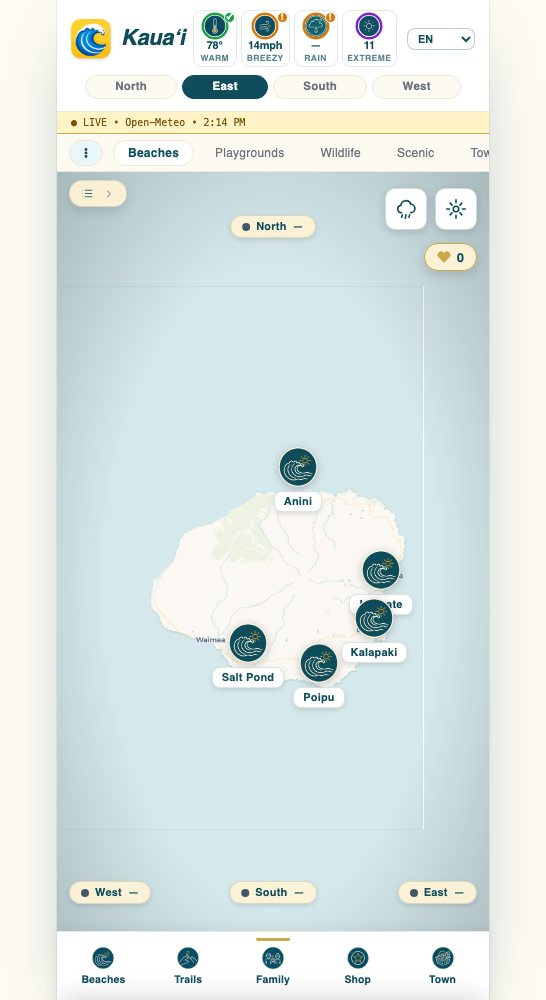
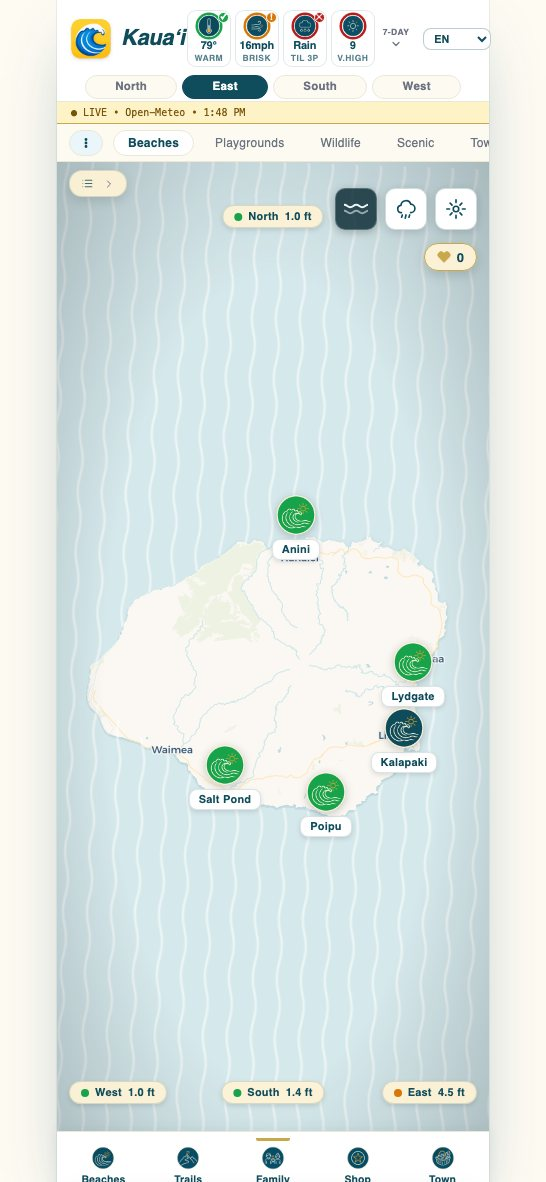
Town Ad brochure: island app shots now show real safety colours + true phone aspect
The previous captures had neutral pins: headless has no /api/wx, so LIVE was null,
getCond() returned empty and every beach scored status:"hidden" (grey pin). Captured
these against a local wx proxy serving real Open-Meteo/NOAA data, so beaches carry
their actual green/amber safety colours and the header shows real conditions and
per-shore surf (Maui: 82F, 17mph, West 0.8ft). Re-cropped 546x1182 (~9:19.5) so the
shot fits the phone frame instead of looking stubby.

Known: the island sits with ocean around it — that's the app's own framing of a
landscape island in a portrait phone (frameIsland doesn't zoom-to-fill). Fixing that
is an app change on the multi-island branch, not a capture trick.

Changed region(s): [[0.0934, 0.0, 0.9029, 0.279], [0.1557, 0.403, 0.8407, 0.713], [0.0934, 0.868, 0.9029, 1.0]]

diff --git a/town-ad.html b/town-ad.html
@@ -216,7 +216,7 @@
     <p class="audience">Built for the restaurants, shops, activities, and services on the Town tab. Hotels get OceanSafe free, so this tier is for local businesses that want to be seen.</p>
   </div>
   <div class="hero-phone">
-    <img id="heroPhone" src="/assets/shot-app-kauai.jpg" width="546" height="1000" alt="The OceanSafe app: today’s conditions and every beach scored for swimming, snorkeling and surf.">
+    <img id="heroPhone" src="/assets/shot-app-kauai.jpg" width="546" height="1182" alt="The OceanSafe app: today’s conditions and every beach scored for swimming, snorkeling and surf.">
   </div>
   <svg class="wave" viewBox="0 0 1440 70" preserveAspectRatio="none" aria-hidden="true"><path d="M0,30 C240,72 480,72 720,44 C960,16 1200,16 1440,44 L1440,70 L0,70 Z"/></svg>
 </header>
